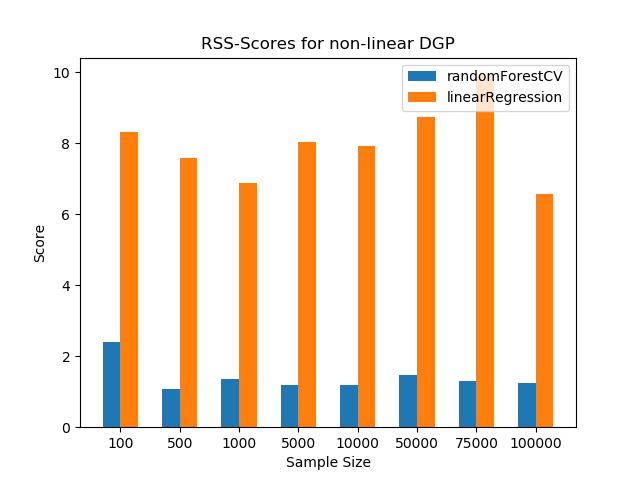
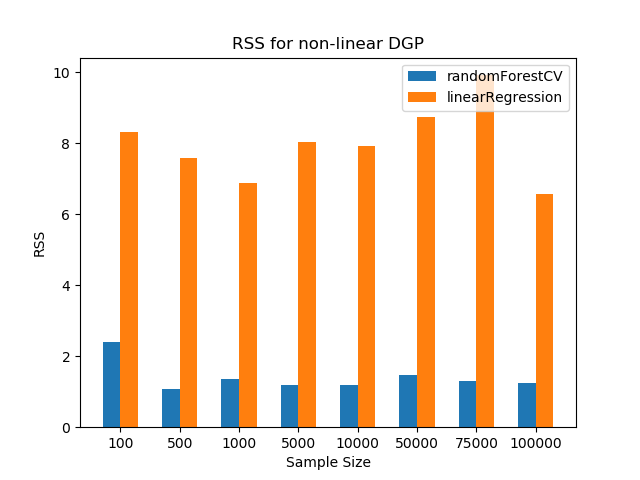
Changed title and added log-scale

Changed region(s): [[0.3125, 0.0625, 0.7188, 0.125], [0.0312, 0.4688, 0.0938, 0.5625]]

diff --git a/simulation.py b/simulation.py
@@ -20,10 +20,12 @@ class MonteCarloSimulation():
         self.results = {}
         self.INDEX = np.arange(len(sampleSizes))
         self.sampleSizes = sampleSizes
+        self.evaluate = ""
         print("DGP:", dgp.__name__)
 
     def simulate(self, method, simulationNum = 1000, evaluate="R2"):
         print("Simulate", method.__name__)
+        self.evaluate = evaluate
         meanScores = []
         for size in self.sampleSizes:
             print("Sample size:", size)
@@ -32,11 +34,12 @@ class MonteCarloSimulation():
             X_test, y_test = self.dgp(random_state = size, n=round(100))
             scores = []
             for iteration in range(simulationNum):
-                print("Iteration=", iteration + 1)
+                if simulationNum > 1:
+                    print("Iteration=", iteration + 1)
                 # Generate data
                 X, y = self.dgp(random_state=iteration, n=size)
                 # fit model
-                model = method(X,y, random_state=iteration)
+                model = method(X, y, random_state=iteration)
                 # Add fitted model to list
                 self.models.append(model)
                 # Evaluate
@@ -68,7 +71,7 @@ class MonteCarloSimulation():
             plt.show()
         plt.clf()
 
-    def bar(self, title="Score for different sample sizes", filePath="", legend=True):
+    def bar(self, title="Score for different sample sizes", filePath="", logScale=False):
         labels = []
         index = self.INDEX
         barWidth = 0.3
@@ -77,15 +80,17 @@ class MonteCarloSimulation():
             
             ax.bar(index + barWidth, result, barWidth,
                     label=name)
+            if logScale:
+                ax.set_yscale('log')
             index = index + barWidth
             labels.append(name)
 
         labelPosition = self.INDEX + ((len(self.results) + 1)*barWidth)/2
         plt.xticks(labelPosition, self.sampleSizes)
-        if legend:
+        if len(labels) > 1:
             plt.legend(labels, loc='upper right')
         plt.xlabel('Sample Size')
-        plt.ylabel('Score')
+        plt.ylabel(self.evaluate)
         plt.title(title)
         # ax.set_xlabel('Sample Size')
         # ax.set_ylabel('Score')
@@ -170,15 +175,16 @@ if __name__ == '__main__':
     mcs.simulate(method=randomForestCV, simulationNum = 1, evaluate="RSS")
     mcs.simulate(method=linearRegression, simulationNum = 1, evaluate="RSS")
     
-    mcs.bar(title="RSS-Scores for non-linear DGP",
+    mcs.bar(title="RSS for non-linear DGP",
             filePath="plots/forest_vs_ols_nonlinearDGP")            
 
     # Compare RSS of random forest and ols on increasing sample sizes from linear DGP
-    mcs = MonteCarloSimulation(linearDGP, sampleSizes = [100, 1000, 5000, 10000, 50000, 100000])
+    mcs = MonteCarloSimulation(linearDGP, sampleSizes = [100, 1000, 5000, 10000, 50000, 75000, 100000])
 
     mcs.simulate(method=randomForestCV, simulationNum = 1, evaluate="RSS")
 
     mcs.simulate(method=linearRegression, simulationNum = 1, evaluate="RSS")
     
-    mcs.bar(title=f"RSS-Scores for linear DGP",
-            filePath=f"plots/forest_vs_ols_linearDGP")
+    mcs.bar(title=f"RSS for linear DGP",
+            filePath=f"plots/forest_vs_ols_linearDGP", 
+            logScale=True)
